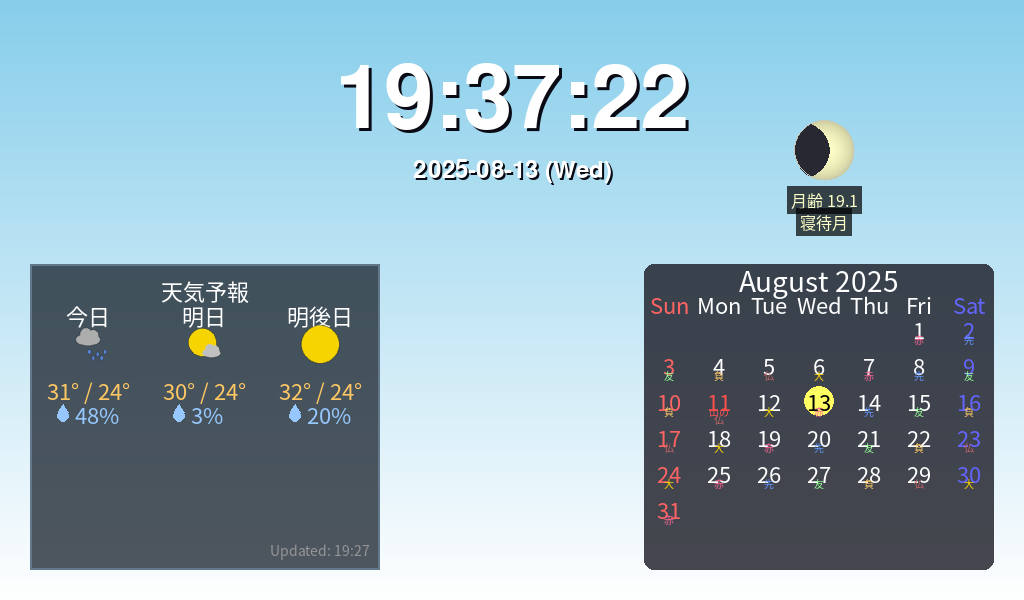
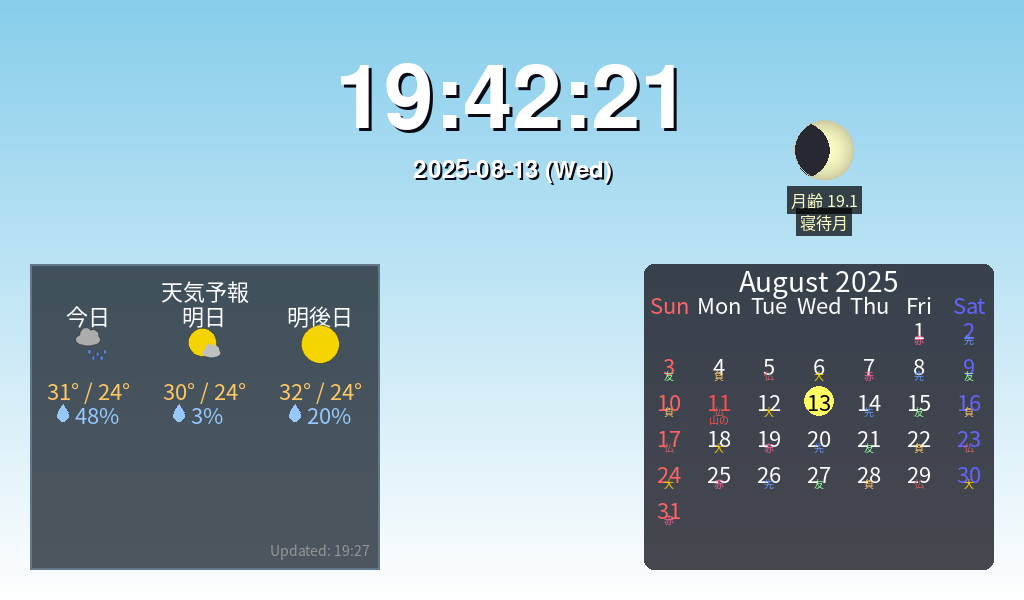
カレンダーの行間隔を調整して視認性を向上
- 週ごとの行間隔を36px→42pxに拡大
- 六曜と祝日名の位置を微調整（11px、9px間隔）
- パネル最大高さを350pxに拡張
- 天気パネルも同じ高さ計算に同期

🤖 Generated with Claude Code

Changed region(s): [[0.4375, 0.09, 0.5625, 0.24], [0.625, 0.09, 0.6875, 0.24], [0.6875, 0.69, 0.7188, 0.72]]

diff --git a/src/renderers/simple_calendar_renderer.py b/src/renderers/simple_calendar_renderer.py
@@ -187,17 +187,17 @@ class SimpleCalendarRenderer:
         cal_obj = cal.monthcalendar(now.year, now.month)
         num_weeks = len(cal_obj)
         
-        # 基本サイズ計算（よりコンパクトに）
-        base_height = 80   # ヘッダー部分（月名+曜日）を縮小
-        row_height = 36    # 各行の高さを縮小（六曜含む）
-        bottom_margin = 10  # 下部余白を縮小
+        # 基本サイズ計算（六曜・祝日名を考慮）
+        base_height = 80   # ヘッダー部分（月名+曜日）
+        row_height = 42    # 各行の高さ（日付＋六曜＋祝日名のスペース）
+        bottom_margin = 10  # 下部余白
         
-        # 六曜表示の場合も行高さに含まれているため、追加高さは不要
+        # 高さ計算
         calculated_height = base_height + (num_weeks * row_height) + bottom_margin
         
-        # 最小・最大制限（よりコンパクトに）
+        # 最小・最大制限
         min_height = 250
-        max_height = 330
+        max_height = 350  # 最大値を少し増やす
         final_height = max(min_height, min(max_height, calculated_height))
         
         logger.info(f"Calendar dynamic sizing: {num_weeks} weeks, calculated={calculated_height}px, final={final_height}px")
@@ -321,7 +321,7 @@ class SimpleCalendarRenderer:
                         # 今日の場合は補助情報を表示しない（黄色い円と重なるため）
                         if day != now.day:
                             # 六曜名を小さく表示（オプション）- 表示順を先に
-                            sub_info_y = day_y + 10  # 日付の下の基本位置
+                            sub_info_y = day_y + 11  # 日付の下の基本位置（少し余裕を持たせる）
                             
                             if self.rokuyou_enabled and ROKUYOU_AVAILABLE and self.show_rokuyou_names:
                                 try:
@@ -330,7 +330,7 @@ class SimpleCalendarRenderer:
                                     rokuyou_text = self.tiny_font.render(rokuyou_name, True, rokuyou_color)
                                     rokuyou_rect = rokuyou_text.get_rect(center=(day_x, sub_info_y))
                                     screen.blit(rokuyou_text, rokuyou_rect)
-                                    sub_info_y += 8  # 次の情報のために位置を下げる
+                                    sub_info_y += 9  # 次の情報のために位置を下げる（少し間隔を広げる）
                                 except Exception as e:
                                     logger.debug(f"Failed to render rokuyou for {current_date}: {e}")
                             
@@ -348,7 +348,7 @@ class SimpleCalendarRenderer:
                                 except:
                                     pass  # フォントエラーは無視
                 
-                day_y += 36  # 行間を適切に（動的高さ計算と同期）
+                day_y += 42  # 行間を広げて六曜・祝日名との重複を防ぐ
             
         except Exception as e:
             logger.error(f"Failed to render calendar: {e}")

diff --git a/src/renderers/simple_weather_renderer.py b/src/renderers/simple_weather_renderer.py
@@ -453,14 +453,14 @@ class SimpleWeatherRenderer:
         
         # カレンダーレンダラーと同じ計算ロジック（更新版）
         base_height = 80
-        row_height = 36
+        row_height = 42  # カレンダーと同期
         bottom_margin = 10
         
         calculated_height = base_height + (num_weeks * row_height) + bottom_margin
         
         # 最小・最大制限（更新版）
         min_height = 250
-        max_height = 330
+        max_height = 350  # カレンダーと同期
         return max(min_height, min(max_height, calculated_height))
     
     def cleanup(self):
